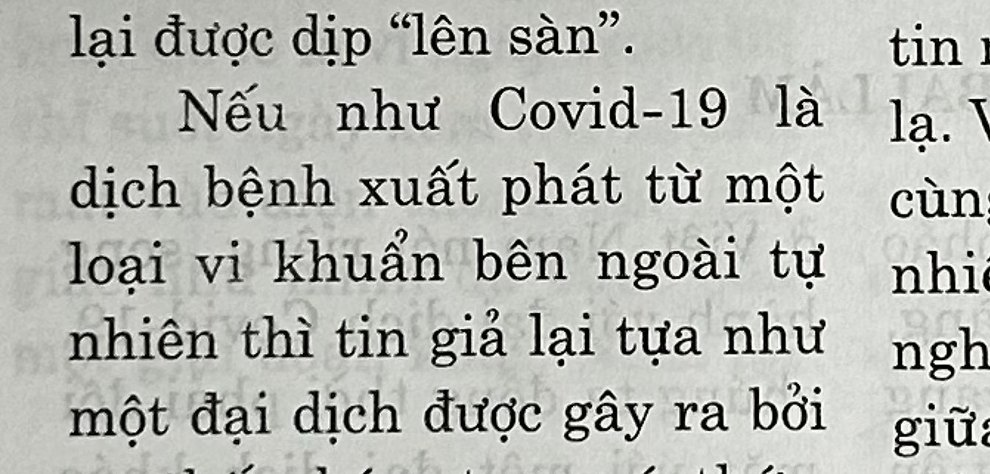
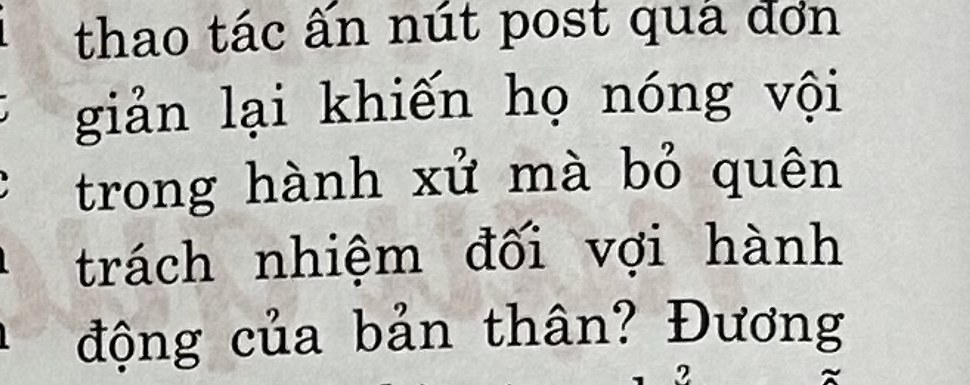
Add files via upload

diff --git a/index.html b/index.html
@@ -264,25 +264,25 @@ footer{border-top:3px solid var(--red); padding-block:32px 48px; font:400 13px/1
 
   <section id="workflow">
     <div class="sec-head"><span class="pg">03</span><h2>Workflow: one paragraph, five versions</h2></div>
-    <p class="prose" style="margin-bottom:24px">Every page went through the same Version Set. Here is a single paragraph from p. 98 at each stage. The magazine itself prints <span class="vi">vi khuẩn</span> (bacterium) for the virus; we keep it as printed.</p>
-    <p class="vs-en prose">In English the paragraph reads: “If Covid-19 is an epidemic that comes from a kind of bacterium out in nature, then fake news is like…” Highlighted: what each stage changed (OCR misread <i>19</i> as <i>l9</i>; in stage 5, compound words are joined with “_”).</p>
+    <p class="prose" style="margin-bottom:24px">Every page went through the same Version Set. Here is one passage from p. 98 at each stage. The magazine prints <span class="vi">đối vợi</span>, a misprint of <span class="vi">đối với</span> (towards); we keep it as printed.</p>
+    <p class="vs-en prose">In English the passage reads: “…[posting is] so simple that it makes them hasty in how they act, forgetting their responsibility for their own actions?” Highlighted: what each stage changed. OCR read the misprint correctly; DeepAI silently “fixed” it; we checked the paper and put the printed word back; in stage 5, compound words are joined with “_”.</p>
     <div class="vs">
-      <div class="st"><span class="label">1 · Capture</span><img src="vs-master.jpg" alt="Master photo crop of page 98, uncorrected" loading="lazy"><p class="label" style="color:var(--ink-2);letter-spacing:.02em;text-transform:none;font-weight:400">iPhone, 1×, no flash, daylight on a cutting mat. HEIC 2268×4032, untouched.</p></div>
-      <div class="st"><span class="label">2 · Process</span><img src="vs-processed.jpg" alt="Processed crop of page 98" loading="lazy"><p class="label" style="color:var(--ink-2);letter-spacing:.02em;text-transform:none;font-weight:400">Four corners marked by hand, perspective corrected, lighting flattened, colour kept.</p></div>
+      <div class="st"><span class="label">1 · Capture</span><img src="vs-master.jpg" alt="Detail of the untouched master photo of page 98, showing the line trách nhiệm đối vợi hành" loading="lazy"><p class="label" style="color:var(--ink-2);letter-spacing:.02em;text-transform:none;font-weight:400">iPhone, 1×, no flash, daylight on a cutting mat. HEIC 2268×4032, untouched (detail shown).</p></div>
+      <div class="st"><span class="label">2 · Process</span><img src="vs-processed.jpg" alt="The same passage from the processed copy of page 98" loading="lazy"><p class="label" style="color:var(--ink-2);letter-spacing:.02em;text-transform:none;font-weight:400">Four corners marked by hand, perspective corrected, lighting flattened, colour kept.</p></div>
       <div class="st"><span class="label">3 · Recognize</span><pre><span class="label" style="color:var(--ink-2)">Tesseract OCR</span>
-Nếu như <mark>Covid-l9</mark> là
-dịch bệnh xuất phát từ một
-loại vi khuẩn bên ngoài tự
-nhiên thì tin giả lại tựa như</pre><pre><span class="label" style="color:var(--ink-2)">DeepAI (class prompt)</span>
-Nếu như Covid-19 là
-dịch bệnh xuất phát từ một
-loại vi khuẩn bên ngoài tự
-nhiên thì tin giả lại tựa như</pre></div>
-      <div class="st"><span class="label">4 · Check &amp; correct</span><pre>Nếu như Covid-19 là
-dịch bệnh xuất phát từ một
-loại <mark>vi khuẩn</mark> bên ngoài tự
-nhiên thì tin giả lại tựa như</pre><p class="label" style="color:var(--ink-2);letter-spacing:.02em;text-transform:none;font-weight:400">Checked line by line against the paper magazine. Print error kept.</p></div>
-      <div class="st"><span class="label">5 · Clean &amp; normalize</span><pre>Nếu như Covid-19 là <mark>dịch_bệnh</mark> xuất phát từ một loại <mark>vi_khuẩn</mark> bên ngoài <mark>tự_nhiên</mark> thì <mark>tin_giả</mark> lại tựa như</pre><p class="label" style="color:var(--ink-2);letter-spacing:.02em;text-transform:none;font-weight:400">Lines joined, compounds bound with _ for Voyant. Every change logged.</p></div>
+giản lại khiến họ nóng vội
+trong hành xử mà bỏ quên
+trách nhiệm đối <mark>vợi</mark> hành
+động của bản thân?</pre><pre><span class="label" style="color:var(--ink-2)">DeepAI (class prompt)</span>
+giản lại khiến họ nóng vội
+trong hành xử mà bỏ quên
+trách nhiệm đối <mark>với</mark> hành
+động của bản thân?</pre><p class="label" style="color:var(--ink-2);letter-spacing:.02em;text-transform:none;font-weight:400">OCR kept the misprint. DeepAI changed it, although the prompt said “Do not correct spelling”.</p></div>
+      <div class="st"><span class="label">4 · Check &amp; correct</span><pre>giản lại khiến họ nóng vội
+trong hành xử mà bỏ quên
+trách nhiệm đối <mark>vợi</mark> hành
+động của bản thân?</pre><p class="label" style="color:var(--ink-2);letter-spacing:.02em;text-transform:none;font-weight:400">Checked line by line against the paper magazine. DeepAI’s “fix” reverted to the printed <i>vợi</i> (see Decision 3).</p></div>
+      <div class="st"><span class="label">5 · Clean &amp; normalize</span><pre>giản lại khiến họ <mark>nóng_vội</mark> trong <mark>hành_xử</mark> mà bỏ quên <mark>trách_nhiệm</mark> đối vợi <mark>hành_động</mark> của <mark>bản_thân</mark>?</pre><p class="label" style="color:var(--ink-2);letter-spacing:.02em;text-transform:none;font-weight:400">Lines joined, compounds bound with _ for Voyant. Every change logged.</p></div>
     </div>
   </section>
 
